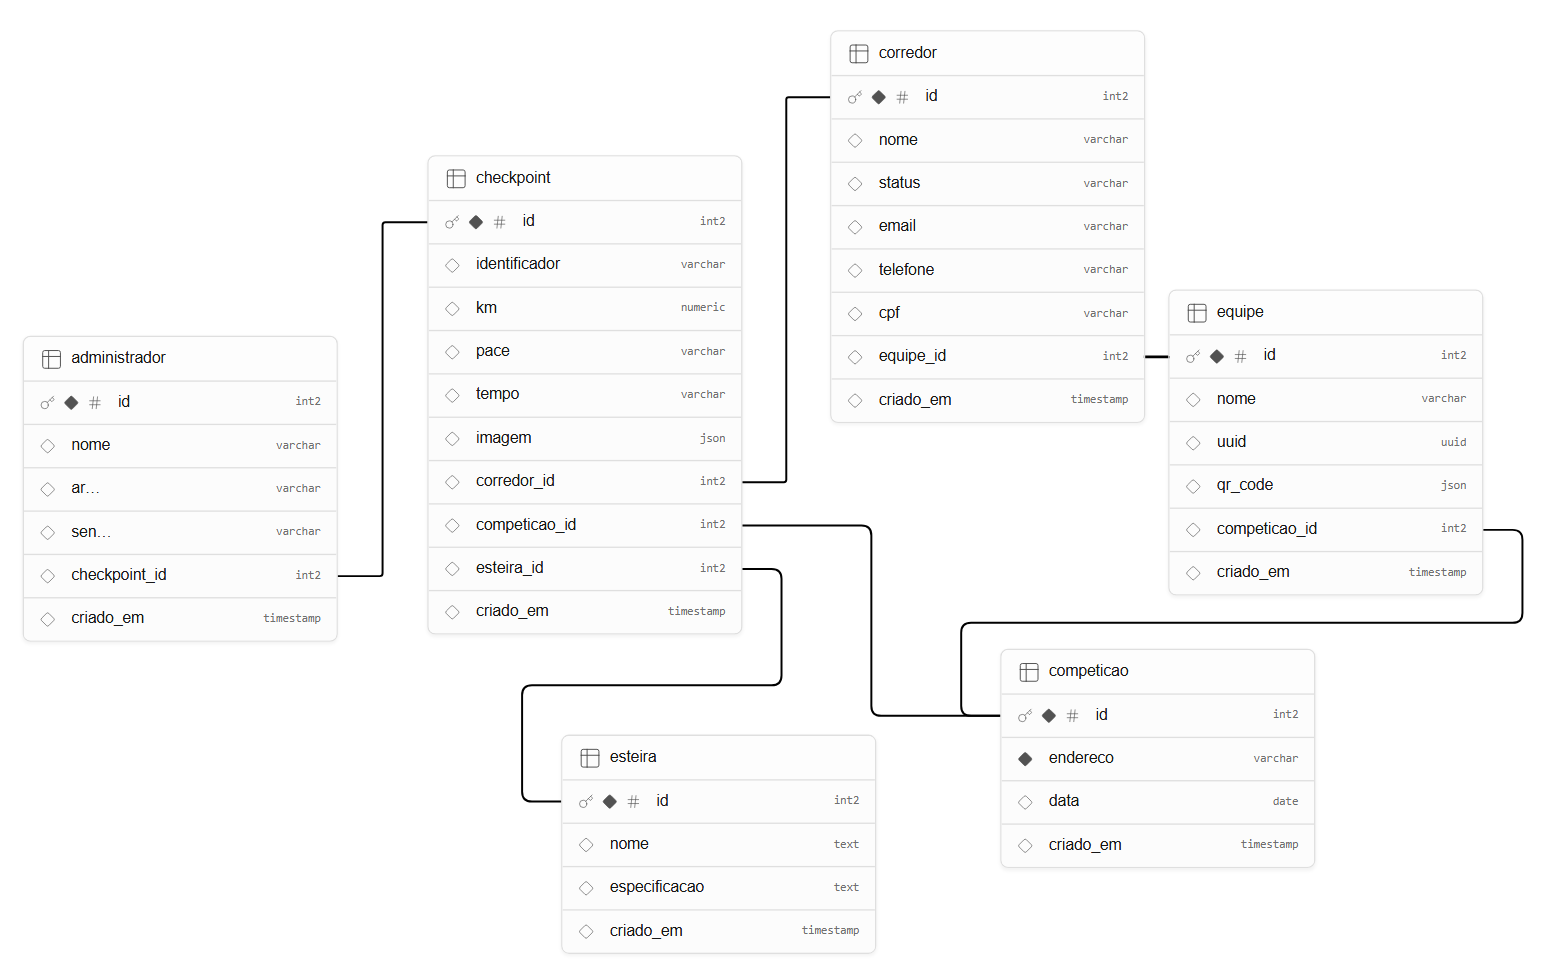
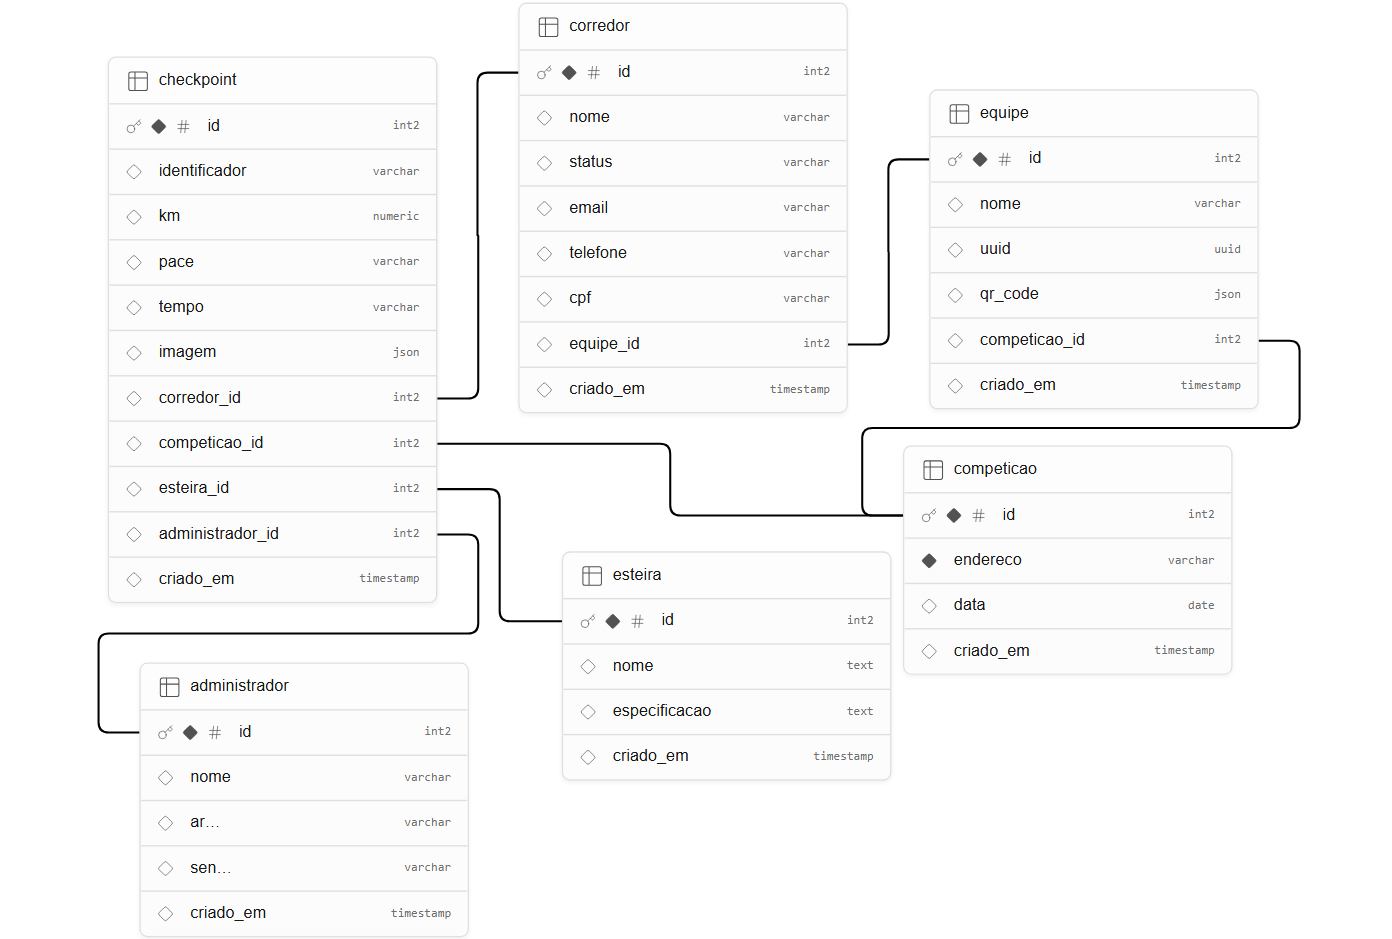
docs(#105): corrige modelo relacional
corrige a seção 3.6.3.1 de acordo com a revisão do merge

diff --git a/documentos/wad.md b/documentos/wad.md
@@ -909,22 +909,22 @@ Com base nos requisitos funcionais, nas regras de negócio e na modelagem concei
 ##### Descrição das entidades
 
 **Tabela `competicao`**  
-A tabela `competicao` armazena as informações referentes aos eventos esportivos cadastrados na plataforma, incluindo dados como endereço e data de realização. Essa entidade representa a base organizacional do sistema, servindo como referência para o cadastro das equipes participantes e para os registros operacionais gerados durante a competição.
+A tabela `competicao` armazena as informações referentes aos eventos esportivos cadastrados na plataforma, incluindo dados relacionados ao endereço e à data de realização de cada competição. Essa entidade representa a base organizacional do sistema, servindo como referência para o cadastro das equipes participantes e para os registros operacionais gerados durante a competição.
 
 **Tabela `equipe`**  
-A tabela `equipe` registra os grupos participantes vinculados a uma competição específica. Além de sua chave primária, contempla atributos de identificação, como nome e UUID, bem como o identificador visual em QR Code gerado pela aplicação para facilitar o acesso público às informações da equipe.
+A tabela `equipe` registra os grupos participantes vinculados a uma competição específica. Além de sua chave primária, contempla atributos de identificação que permitem individualizar cada equipe dentro da plataforma e associá-la ao respectivo evento esportivo.
 
 **Tabela `corredor`**  
 A tabela `corredor` armazena os dados cadastrais dos participantes, incluindo informações de identificação e contato, como nome, email, telefone e CPF. Por meio da chave estrangeira `equipe_id`, cada corredor é associado à sua respectiva equipe.
 
 **Tabela `esteira`**  
-A tabela `esteira` representa os equipamentos utilizados durante a coleta das métricas de desempenho dos participantes, armazenando informações de identificação e especificação de cada dispositivo utilizado na competição.
-
-**Tabela `checkpoint`**  
-A tabela `checkpoint` centraliza os registros operacionais das corridas, armazenando métricas como quilometragem percorrida, pace, tempo de execução e evidências capturadas pelo sistema. Além disso, essa entidade mantém relacionamento com as tabelas `corredor`, `competicao` e `esteira`, permitindo rastrear a origem e o contexto de cada registro.
+A tabela `esteira` representa os equipamentos utilizados durante a coleta das métricas de desempenho dos participantes, armazenando informações que permitem identificar individualmente cada dispositivo utilizado durante a competição.
 
 **Tabela `administrador`**  
-A tabela `administrador` armazena os dados dos usuários responsáveis pela gestão operacional da plataforma, incluindo informações de autenticação e área de atuação. Por meio da chave estrangeira `checkpoint_id`, essa entidade mantém relacionamento com a tabela `checkpoint`, permitindo registrar quais checkpoints foram auditados, validados ou acompanhados por usuários administrativos durante a operação do sistema.
+A tabela `administrador` armazena os dados dos usuários responsáveis pela gestão operacional da plataforma, incluindo informações de identificação, autenticação e rastreabilidade temporal.
+
+**Tabela `checkpoint`**  
+A tabela `checkpoint` centraliza os registros operacionais das corridas, armazenando um identificador único de registro, métricas de desempenho e evidências capturadas pelo sistema. Além disso, essa entidade mantém relacionamento com as tabelas `corredor`, `competicao`, `esteira` e `administrador`, permitindo rastrear a origem, o contexto e a validação administrativa associada a cada registro.
 
 Adicionalmente, todas as entidades contemplam atributos temporais, como `criado_em`, permitindo rastreabilidade histórica das operações realizadas na plataforma.
 
@@ -937,11 +937,8 @@ Os relacionamentos entre as entidades foram definidos por meio de chaves primár
 - um `corredor` pode gerar múltiplos `checkpoints` *(1:N)*;
 - uma `competicao` pode possuir múltiplos `checkpoints` *(1:N)*;
 - uma `esteira` pode estar associada a múltiplos `checkpoints` *(1:N)*;
-- um `checkpoint` pode estar associado a múltiplos registros de auditoria administrativa *(1:N)*.
+- Um `administrador` pode validar múltiplos checkpoints (1:N).
 
-Além da definição dos relacionamentos, a modelagem contempla restrições de integridade como `not null`, garantindo obrigatoriedade de preenchimento dos campos essenciais; `unique`, assegurando unicidade em atributos de identificação; `foreign key`, preservando a consistência entre entidades relacionadas; e `check`, validando regras específicas de negócio. Adicionalmente, a implementação física considera a criação de índices por meio de `create index`, visando otimizar consultas e garantir desempenho durante a operação da aplicação.
-
-A implementação física completa dessa estrutura, incluindo as instruções DDL executáveis e a ordem de dependência entre as tabelas no arquivo `migration.sql`, é apresentada na subseção seguinte.
 
 #### 3.6.3.2 Modelo Físico
 
